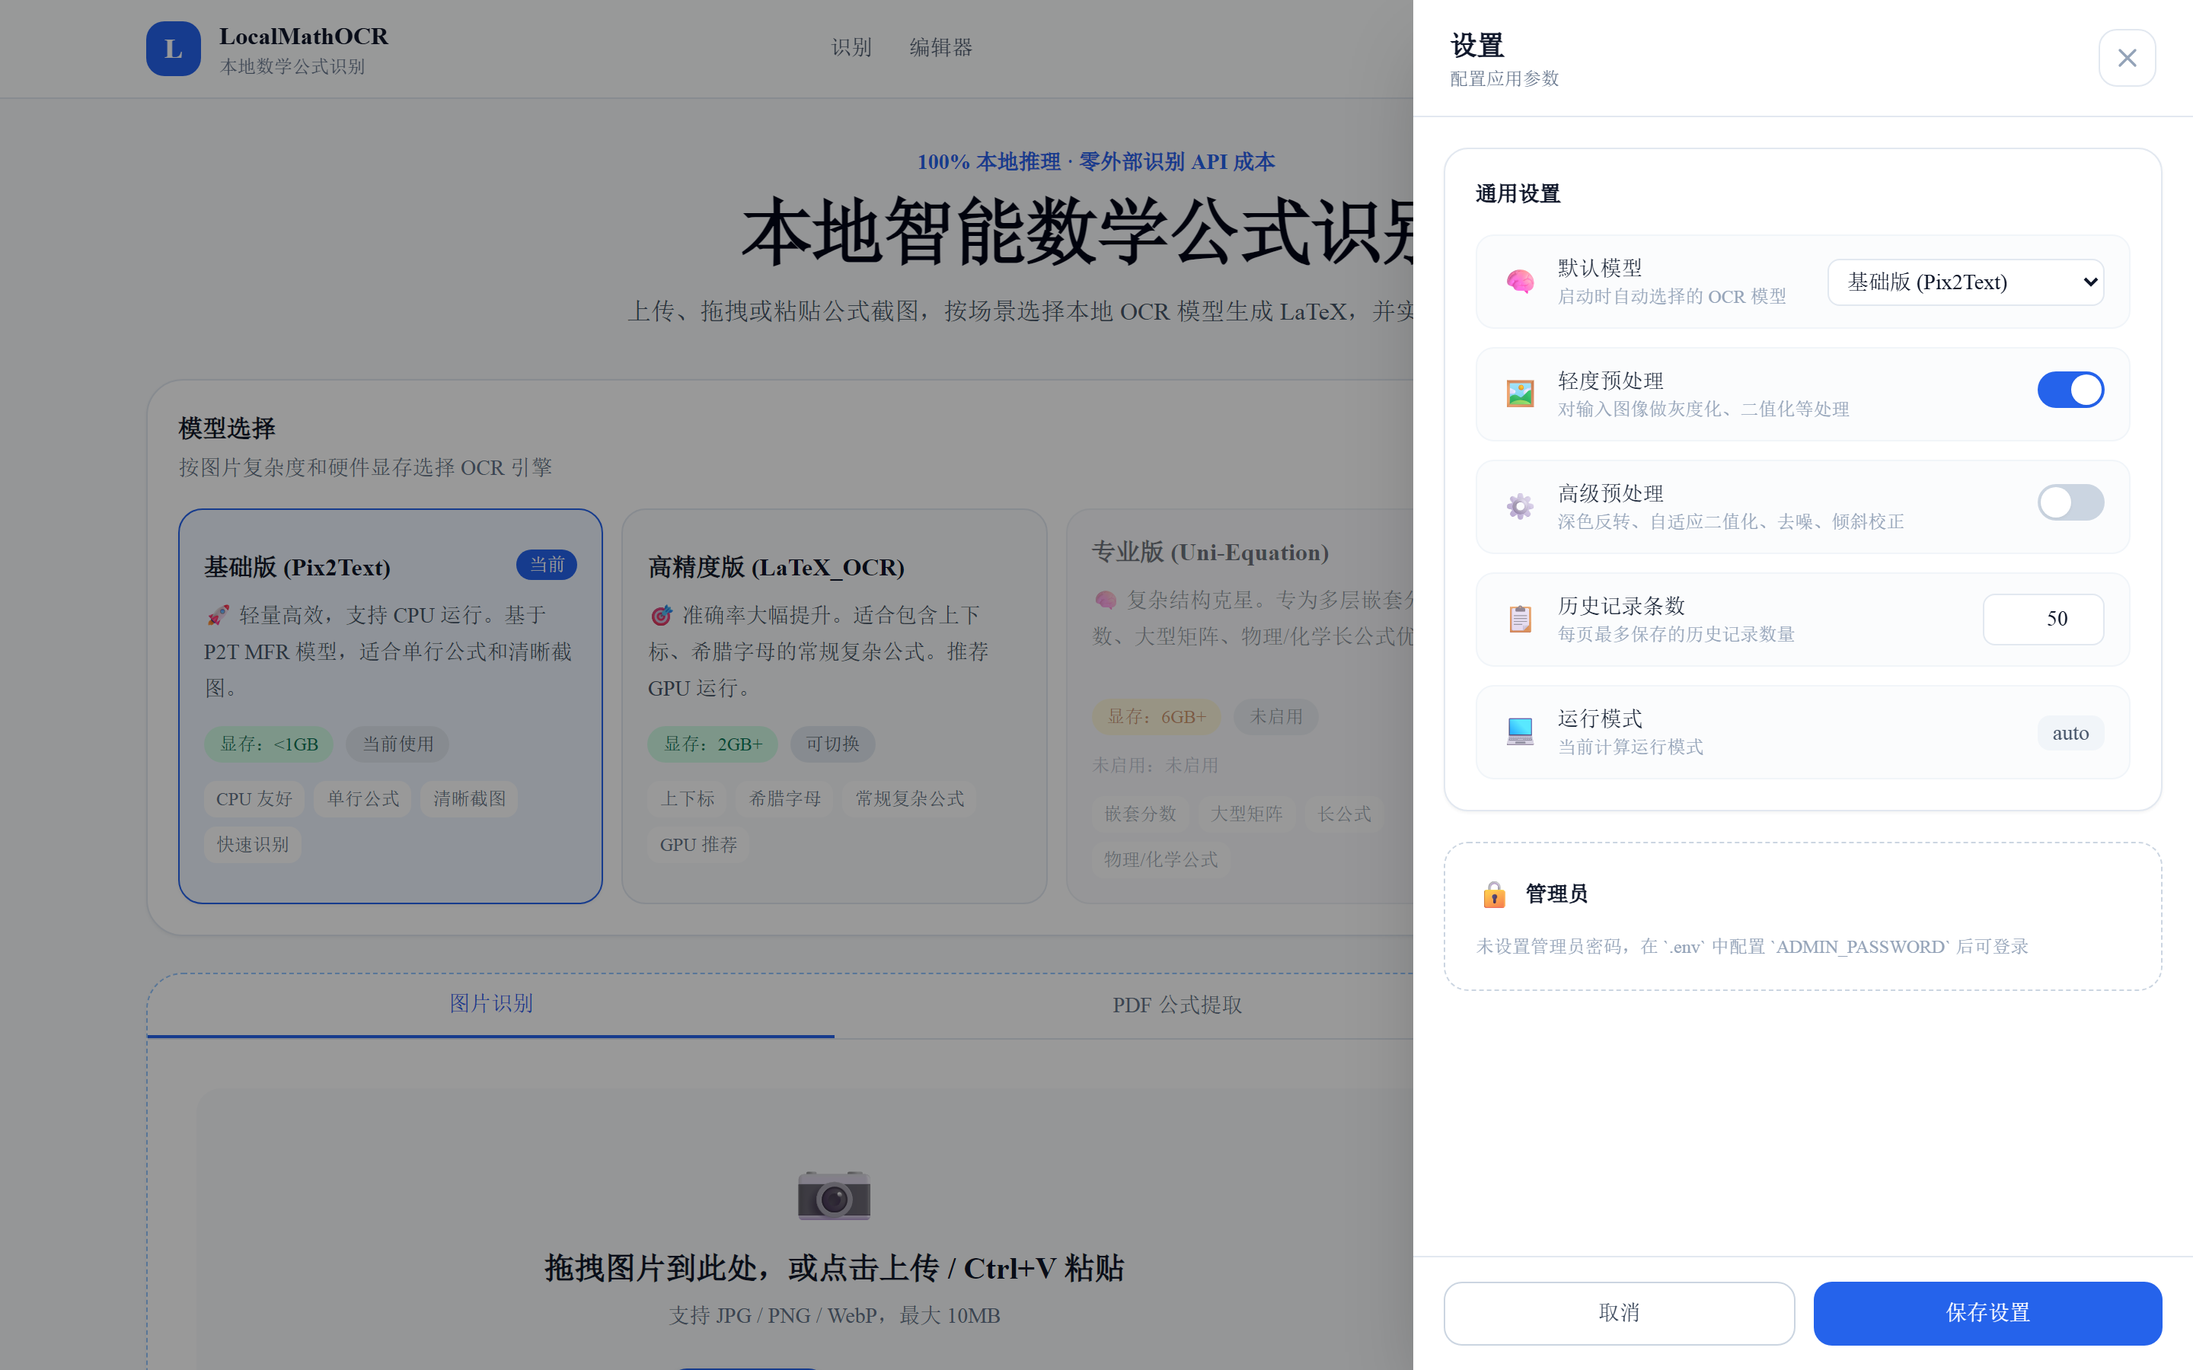
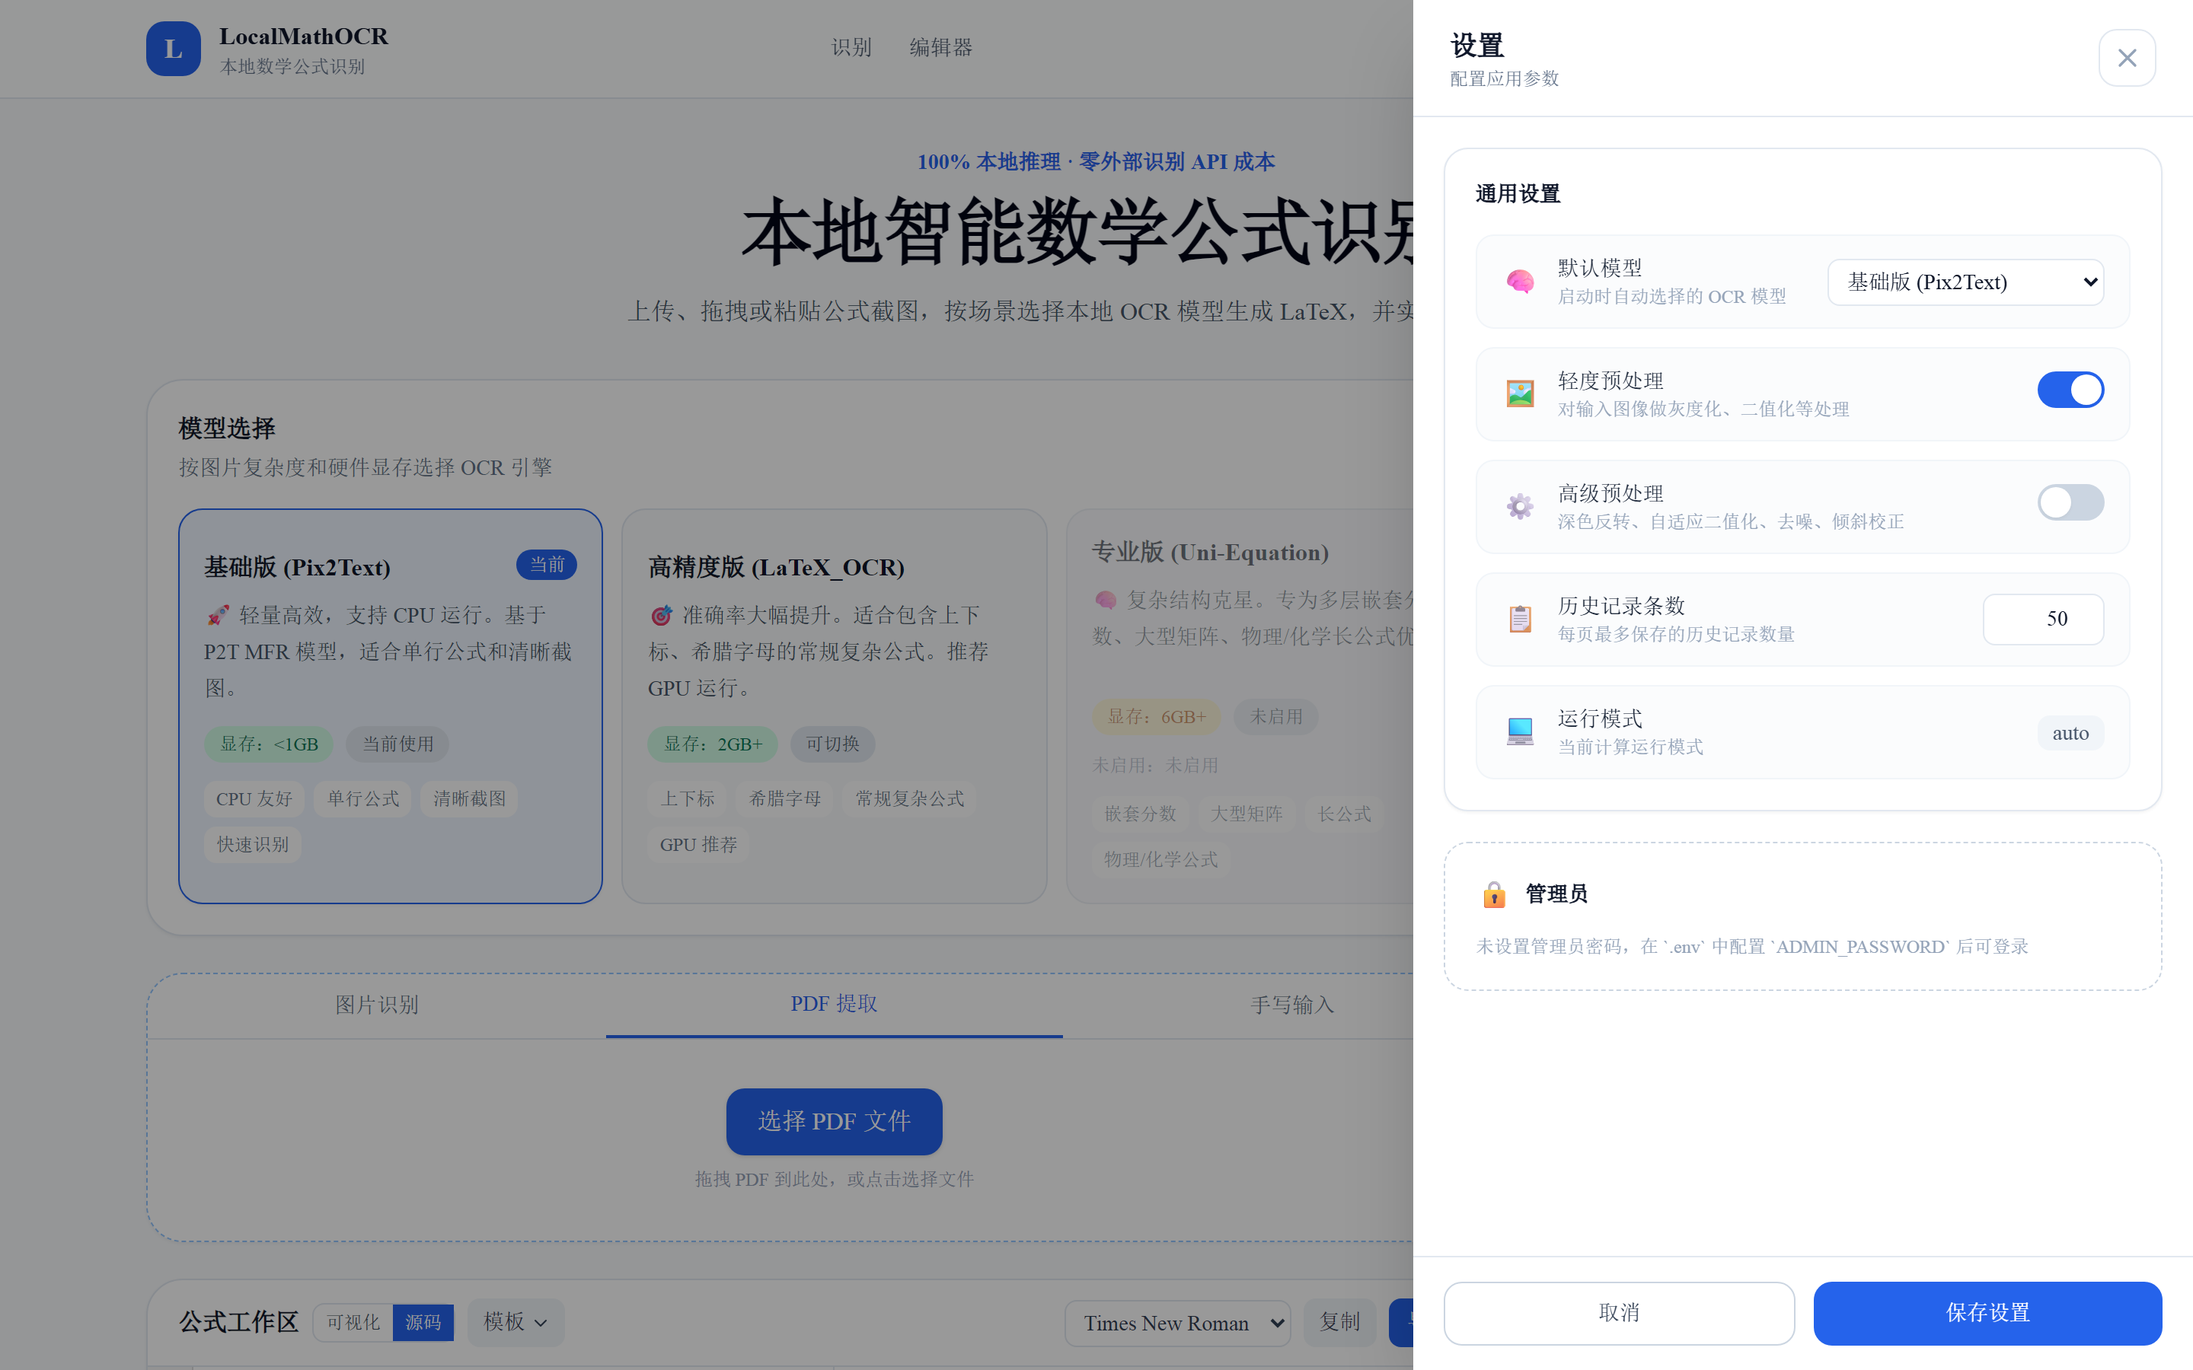
release-v2.9.0: handwriting formula recognition
- Add HandwritingPad component with Canvas drawing, pen/eraser tools,
  adjustable line width, undo/clear, smooth quadratic curves
- Native touch event listeners with passive:false for mobile scrolling
- CSS hidden tabs to preserve handwriting state across tab switches
- Add handwriting tab to UploadZone (image/PDF/handwrite)
- Take 8 feature screenshots: main, workspace, source mode, compute,
  handwriting, PDF, settings, mobile
- Update README with all screenshots and handwriting feature
- Update CHANGELOG for v2.9.0

diff --git a/frontend/src/components/HandwritingPad.tsx b/frontend/src/components/HandwritingPad.tsx
@@ -1,0 +1,222 @@
+import { useRef, useState, useCallback, useEffect } from 'react';
+import { recognizeFormula } from '../services/api';
+
+type Props = {
+  onResult: (latex: string) => void;
+  onToast: (message: string) => void;
+  onRecognized?: () => void;
+};
+
+type Point = { x: number; y: number };
+type Stroke = { points: Point[]; width: number; tool: 'pen' | 'eraser' };
+
+const COLORS = { pen: '#1e293b', eraser: '#ffffff' };
+
+export function HandwritingPad({ onResult, onToast, onRecognized }: Props) {
+  const canvasRef = useRef<HTMLCanvasElement>(null);
+  const [tool, setTool] = useState<'pen' | 'eraser'>('pen');
+  const [lineWidth, setLineWidth] = useState(3);
+  const [strokes, setStrokes] = useState<Stroke[]>([]);
+  const [recognizing, setRecognizing] = useState(false);
+
+  const strokesRef = useRef<Stroke[]>([]);
+  const currentStrokeRef = useRef<Point[]>([]);
+  const drawingRef = useRef(false);
+  const toolRef = useRef(tool);
+  const lineWidthRef = useRef(lineWidth);
+
+  useEffect(() => { toolRef.current = tool; }, [tool]);
+  useEffect(() => { lineWidthRef.current = lineWidth; }, [lineWidth]);
+  useEffect(() => { strokesRef.current = strokes; }, [strokes]);
+
+  const redraw = useCallback(() => {
+    const canvas = canvasRef.current;
+    if (!canvas) return;
+    const ctx = canvas.getContext('2d')!;
+    ctx.fillStyle = '#ffffff';
+    ctx.fillRect(0, 0, canvas.width, canvas.height);
+
+    ctx.strokeStyle = '#e2e8f0';
+    ctx.lineWidth = 0.5;
+    const step = 20;
+    for (let x = step; x < canvas.width; x += step) {
+      ctx.beginPath(); ctx.moveTo(x, 0); ctx.lineTo(x, canvas.height); ctx.stroke();
+    }
+    for (let y = step; y < canvas.height; y += step) {
+      ctx.beginPath(); ctx.moveTo(0, y); ctx.lineTo(canvas.width, y); ctx.stroke();
+    }
+
+    for (const stroke of strokesRef.current) {
+      drawStroke(ctx, stroke);
+    }
+  }, []);
+
+  function drawStroke(ctx: CanvasRenderingContext2D, stroke: Stroke) {
+    if (stroke.points.length < 2) return;
+    ctx.strokeStyle = stroke.tool === 'eraser' ? COLORS.eraser : COLORS.pen;
+    ctx.lineWidth = stroke.tool === 'eraser' ? stroke.width * 3 : stroke.width;
+    ctx.lineCap = 'round';
+    ctx.lineJoin = 'round';
+    ctx.beginPath();
+    ctx.moveTo(stroke.points[0].x, stroke.points[0].y);
+    for (let i = 1; i < stroke.points.length; i++) {
+      const prev = stroke.points[i - 1];
+      const curr = stroke.points[i];
+      const mx = (prev.x + curr.x) / 2;
+      const my = (prev.y + curr.y) / 2;
+      ctx.quadraticCurveTo(prev.x, prev.y, mx, my);
+    }
+    ctx.stroke();
+  }
+
+  useEffect(() => { redraw(); }, [redraw, strokes]);
+
+  function getPos(e: MouseEvent | TouchEvent): Point {
+    const canvas = canvasRef.current!;
+    const rect = canvas.getBoundingClientRect();
+    const scaleX = canvas.width / rect.width;
+    const scaleY = canvas.height / rect.height;
+    if ('touches' in e) {
+      const t = e.touches[0] || e.changedTouches[0];
+      return { x: (t.clientX - rect.left) * scaleX, y: (t.clientY - rect.top) * scaleY };
+    }
+    return { x: (e.clientX - rect.left) * scaleX, y: (e.clientY - rect.top) * scaleY };
+  }
+
+  useEffect(() => {
+    const canvas = canvasRef.current;
+    if (!canvas) return;
+
+    function handleStart(e: MouseEvent | TouchEvent) {
+      e.preventDefault();
+      drawingRef.current = true;
+      currentStrokeRef.current = [getPos(e)];
+    }
+
+    function handleMove(e: MouseEvent | TouchEvent) {
+      if (!drawingRef.current) return;
+      e.preventDefault();
+      const pt = getPos(e);
+      const prev = currentStrokeRef.current;
+      if (prev.length > 0) {
+        const ctx = canvas!.getContext('2d')!;
+        const last = prev[prev.length - 1];
+        const lw = lineWidthRef.current;
+        const tl = toolRef.current;
+        ctx.strokeStyle = tl === 'eraser' ? COLORS.eraser : COLORS.pen;
+        ctx.lineWidth = tl === 'eraser' ? lw * 3 : lw;
+        ctx.lineCap = 'round';
+        ctx.lineJoin = 'round';
+        ctx.beginPath();
+        const mx = (last.x + pt.x) / 2;
+        const my = (last.y + pt.y) / 2;
+        ctx.quadraticCurveTo(last.x, last.y, mx, my);
+        ctx.stroke();
+      }
+      currentStrokeRef.current = [...prev, pt];
+    }
+
+    function handleEnd(e: MouseEvent | TouchEvent) {
+      if (!drawingRef.current) return;
+      e.preventDefault();
+      drawingRef.current = false;
+      const pts = currentStrokeRef.current;
+      if (pts.length > 1) {
+        const newStroke: Stroke = { points: pts, width: lineWidthRef.current, tool: toolRef.current };
+        setStrokes((prev) => [...prev, newStroke]);
+      }
+      currentStrokeRef.current = [];
+    }
+
+    canvas.addEventListener('mousedown', handleStart);
+    canvas.addEventListener('mousemove', handleMove);
+    canvas.addEventListener('mouseup', handleEnd);
+    canvas.addEventListener('mouseleave', handleEnd);
+    canvas.addEventListener('touchstart', handleStart, { passive: false });
+    canvas.addEventListener('touchmove', handleMove, { passive: false });
+    canvas.addEventListener('touchend', handleEnd, { passive: false });
+    canvas.addEventListener('touchcancel', handleEnd, { passive: false });
+
+    return () => {
+      canvas.removeEventListener('mousedown', handleStart);
+      canvas.removeEventListener('mousemove', handleMove);
+      canvas.removeEventListener('mouseup', handleEnd);
+      canvas.removeEventListener('mouseleave', handleEnd);
+      canvas.removeEventListener('touchstart', handleStart);
+      canvas.removeEventListener('touchmove', handleMove);
+      canvas.removeEventListener('touchend', handleEnd);
+      canvas.removeEventListener('touchcancel', handleEnd);
+    };
+  }, []);
+
+  function handleUndo() {
+    setStrokes((prev) => prev.slice(0, -1));
+  }
+
+  function handleClear() {
+    setStrokes([]);
+  }
+
+  async function handleRecognize() {
+    const canvas = canvasRef.current;
+    if (!canvas) return;
+    if (strokes.length === 0) { onToast('请先手写公式'); return; }
+
+    setRecognizing(true);
+    try {
+      const blob = await new Promise<Blob>((resolve) => canvas.toBlob((b) => resolve(b!), 'image/png'));
+      const file = new File([blob], 'handwriting.png', { type: 'image/png' });
+      const result = await recognizeFormula(file, true);
+      onResult(result.latex);
+      const ms = result.inference_time_ms || 0;
+      onToast(`识别完成：${ms}ms · ${result.model_id || 'OCR'}`);
+      if (onRecognized) onRecognized();
+    } catch (err) {
+      onToast(err instanceof Error ? err.message : '识别失败');
+    } finally {
+      setRecognizing(false);
+    }
+  }
+
+  return (
+    <div className="flex flex-col">
+      <div className="mb-2 flex flex-wrap items-center gap-1.5 sm:gap-2">
+        <div className="flex rounded-lg border border-slate-200 dark:border-slate-700">
+          <button onClick={() => setTool('pen')} className={`px-2 py-1 text-xs font-medium transition-colors sm:px-2.5 ${tool === 'pen' ? 'bg-blue-600 text-white' : 'text-slate-600 hover:bg-slate-100 dark:text-slate-300 dark:hover:bg-slate-800'}`}>
+            ✏ 画笔
+          </button>
+          <button onClick={() => setTool('eraser')} className={`px-2 py-1 text-xs font-medium transition-colors sm:px-2.5 ${tool === 'eraser' ? 'bg-blue-600 text-white' : 'text-slate-600 hover:bg-slate-100 dark:text-slate-300 dark:hover:bg-slate-800'}`}>
+            🧹 橡皮
+          </button>
+        </div>
+        <label className="flex items-center gap-1 text-xs text-slate-600 dark:text-slate-300">
+          <span className="hidden sm:inline">粗细</span>
+          <input type="range" min={1} max={8} value={lineWidth} onChange={(e) => setLineWidth(Number(e.target.value))} className="w-16 accent-blue-600 sm:w-20" />
+          <span className="w-3 text-right">{lineWidth}</span>
+        </label>
+        <button onClick={handleUndo} disabled={strokes.length === 0} className="rounded-lg bg-slate-100 px-2 py-1 text-xs text-slate-700 hover:bg-slate-200 disabled:opacity-50 dark:bg-slate-800 dark:text-slate-200 sm:px-2.5">撤销</button>
+        <button onClick={handleClear} disabled={strokes.length === 0} className="rounded-lg bg-slate-100 px-2 py-1 text-xs text-slate-700 hover:bg-slate-200 disabled:opacity-50 dark:bg-slate-800 dark:text-slate-200 sm:px-2.5">清空</button>
+      </div>
+
+      <div className="overflow-hidden rounded-xl border border-slate-200 dark:border-slate-700">
+        <canvas
+          ref={canvasRef}
+          width={800}
+          height={500}
+          className="w-full cursor-crosshair touch-none bg-white"
+          style={{ aspectRatio: '8/5', minHeight: '200px' }}
+        />
+      </div>
+
+      <div className="mt-2 flex gap-2">
+        <button
+          onClick={handleRecognize}
+          disabled={recognizing || strokes.length === 0}
+          className="flex-1 rounded-xl bg-blue-600 px-4 py-2.5 text-sm font-medium text-white hover:bg-blue-700 disabled:opacity-50"
+        >
+          {recognizing ? '识别中...' : '识别公式'}
+        </button>
+      </div>
+    </div>
+  );
+}

diff --git a/frontend/src/components/UploadZone.tsx b/frontend/src/components/UploadZone.tsx
@@ -2,6 +2,7 @@ import { useState, useRef, useCallback, useEffect } from 'react';
 import { useDropzone } from 'react-dropzone';
 import type { ModelStatus } from '../services/api';
 import { recognizeFormula } from '../services/api';
+import { HandwritingPad } from './HandwritingPad';
 
 type Props = {
   modelStatus: ModelStatus;
@@ -12,7 +13,7 @@ type Props = {
   onRecognized?: () => void;
 };
 
-type UploadMode = 'image' | 'pdf';
+type UploadMode = 'image' | 'pdf' | 'handwrite';
 
 type Rect = { x: number; y: number; w: number; h: number };
 type RecognitionResult = { latex: string; page: number; rect: Rect };
@@ -42,10 +43,11 @@ export function UploadZone({ modelStatus, loading, onFile, onInsertLatex, onToas
     <section id="recognize" className="rounded-3xl border border-dashed border-blue-300 bg-white shadow-sm dark:border-blue-900 dark:bg-slate-900">
       <div className="flex border-b border-slate-200 dark:border-slate-800">
         <button onClick={() => setMode('image')} className={`flex-1 px-4 py-2.5 text-sm font-medium transition-colors ${mode === 'image' ? 'border-b-2 border-blue-600 text-blue-600' : 'text-slate-500 hover:text-slate-700 dark:text-slate-400 dark:hover:text-slate-200'}`}>图片识别</button>
-        <button onClick={() => setMode('pdf')} className={`flex-1 px-4 py-2.5 text-sm font-medium transition-colors ${mode === 'pdf' ? 'border-b-2 border-blue-600 text-blue-600' : 'text-slate-500 hover:text-slate-700 dark:text-slate-400 dark:hover:text-slate-200'}`}>PDF 公式提取</button>
+        <button onClick={() => setMode('pdf')} className={`flex-1 px-4 py-2.5 text-sm font-medium transition-colors ${mode === 'pdf' ? 'border-b-2 border-blue-600 text-blue-600' : 'text-slate-500 hover:text-slate-700 dark:text-slate-400 dark:hover:text-slate-200'}`}>PDF 提取</button>
+        <button onClick={() => setMode('handwrite')} className={`flex-1 px-4 py-2.5 text-sm font-medium transition-colors ${mode === 'handwrite' ? 'border-b-2 border-blue-600 text-blue-600' : 'text-slate-500 hover:text-slate-700 dark:text-slate-400 dark:hover:text-slate-200'}`}>手写输入</button>
       </div>
 
-      {mode === 'image' && (
+      <div className={mode === 'image' ? '' : 'hidden'}>
         <div className="p-4 sm:p-8">
           <div {...imageDropzone.getRootProps()} className={`flex flex-col items-center justify-center rounded-2xl px-3 py-6 text-center transition sm:px-4 sm:py-10 ${imageDropzone.isDragActive ? 'bg-blue-50 dark:bg-blue-950/40' : 'bg-slate-50 dark:bg-slate-950'}`}>
             <input {...imageDropzone.getInputProps()} />
@@ -60,11 +62,17 @@ export function UploadZone({ modelStatus, loading, onFile, onInsertLatex, onToas
             {modelStatus.status === 'unavailable' && <p className="mt-4 text-sm text-slate-500 dark:text-slate-400">{modelStatus.message}</p>}
           </div>
         </div>
-      )}
+      </div>
 
-      {mode === 'pdf' && (
+      <div className={mode === 'pdf' ? '' : 'hidden'}>
         <PdfExtractor onInsert={onInsertLatex} onToast={onToast} onRecognized={onRecognized} />
-      )}
+      </div>
+
+      <div className={mode === 'handwrite' ? '' : 'hidden'}>
+        <div className="p-4 sm:p-5">
+          <HandwritingPad onResult={onInsertLatex} onToast={onToast} onRecognized={onRecognized} />
+        </div>
+      </div>
     </section>
   );
 }

diff --git a/README.md b/README.md
@@ -23,13 +23,33 @@
 
 ![主界面](docs/preview-main.png)
 
-### 移动端适配
+### 公式工作区（可视化编辑）
 
-![移动端](docs/preview-mobile.png)
+![公式工作区](docs/preview-workspace.png)
+
+### 源码模式（语法验证）
+
+![源码模式](docs/preview-source-mode.png)
+
+### 数学计算工作台
+
+![数学计算](docs/preview-compute.png)
+
+### 手写公式识别
+
+![手写输入](docs/preview-handwriting.png)
+
+### PDF 公式提取
+
+![PDF 提取](docs/preview-pdf.png)
 
 ### 设置面板
 
 ![设置](docs/preview-settings.png)
+
+### 移动端适配
+
+![移动端](docs/preview-mobile.png)
 
 ### 架构设计
 
@@ -53,6 +73,7 @@
 - **LaTeX 语法验证** — 源码模式错误位置红色波浪线高亮，显示行号列号和具体原因，一键修复常见错误
 - **数学计算工作台** — SymPy 符号计算，支持展开、因式分解、化简、求解、求导、积分、极限、级数
 - **PDF 公式提取** — 上传 PDF，按页查看，在页面上框选公式区域识别，支持缩放和翻页
+- **手写公式识别** — Canvas 画布手写数学公式，画笔/橡皮擦/撤销/清空，触摸支持，一键识别
 - **多格式导出** — PNG/SVG/LaTeX/Markdown/MathML/HTML/Word/PDF 等 13 种格式，统一导出菜单
 - **历史记录隔离** — 按浏览器 Session 隔离，不同标签页互不影响，可配置最大条数
 - **移动端适配** — 响应式布局，手机端可正常使用全部核心功能
@@ -65,6 +86,7 @@
 | --- | --- |
 | 上传识别 | 拖拽、上传、粘贴图片，一键识别公式 |
 | PDF 公式提取 | 上传 PDF，按页查看，框选公式区域识别，支持缩放翻页 |
+| 手写输入 | Canvas 画布手写公式，画笔/橡皮擦/撤销/清空，触摸支持，一键识别 |
 | 手动框选 | 上传后进入裁剪模式，可拖拽选区框选纯公式区域 |
 | 置信度提示 | 识别置信度低于 80% 时显示警告条 |
 | 公式工作区 | MathLive 可视化 + CodeMirror 源码编辑，公式模板快捷栏，统一导出菜单（13 种格式） |

diff --git a/CHANGELOG.md b/CHANGELOG.md
@@ -1,5 +1,27 @@
 # 更新日志
 
+## [2.9.0]
+
+### 新增
+
+#### 手写公式识别
+- 上传区域新增「手写输入」标签页，提供 Canvas 画布供手写数学公式。
+- 画笔/橡皮擦切换，粗细可调（1-8px）。
+- 支持撤销（操作历史栈）和清空。
+- 原生触摸事件（`addEventListener` + `{ passive: false }`），移动端绘制时页面不跟随滚动。
+- `quadraticCurveTo` 平滑线条，减少锯齿。
+- 一键识别：Canvas 内容转 Blob 调用现有 `/api/ocr`，结果插入编辑器。
+- 标签页切换后手写内容保留（CSS hidden 而非条件渲染）。
+
+### 优化
+
+#### 移动端适配
+- 手写工具栏响应式：「粗细」文字移动端隐藏，按钮间距缩小。
+- 画布 `minHeight: 200px` 保证小屏可用。
+
+### 更新
+- 项目预览截图扩充至 8 张：主界面、公式工作区、源码模式、数学计算、手写输入、PDF 提取、设置面板、移动端。
+
 ## [2.8.1]
 
 ### 修复
